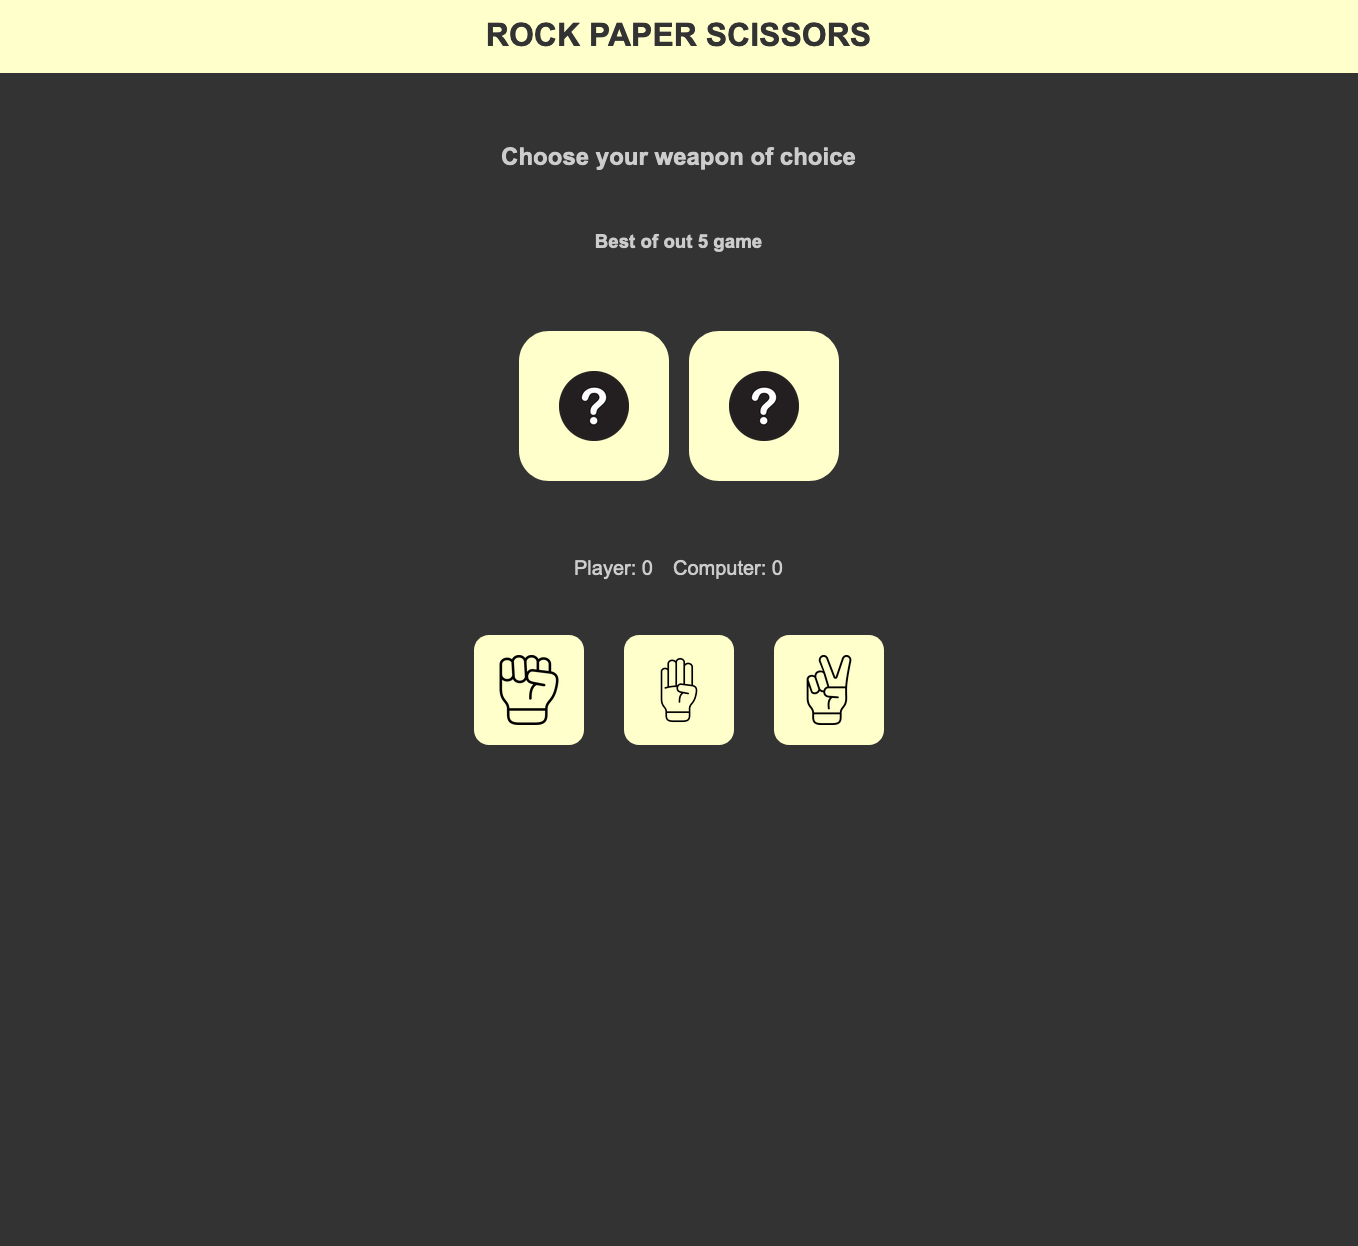
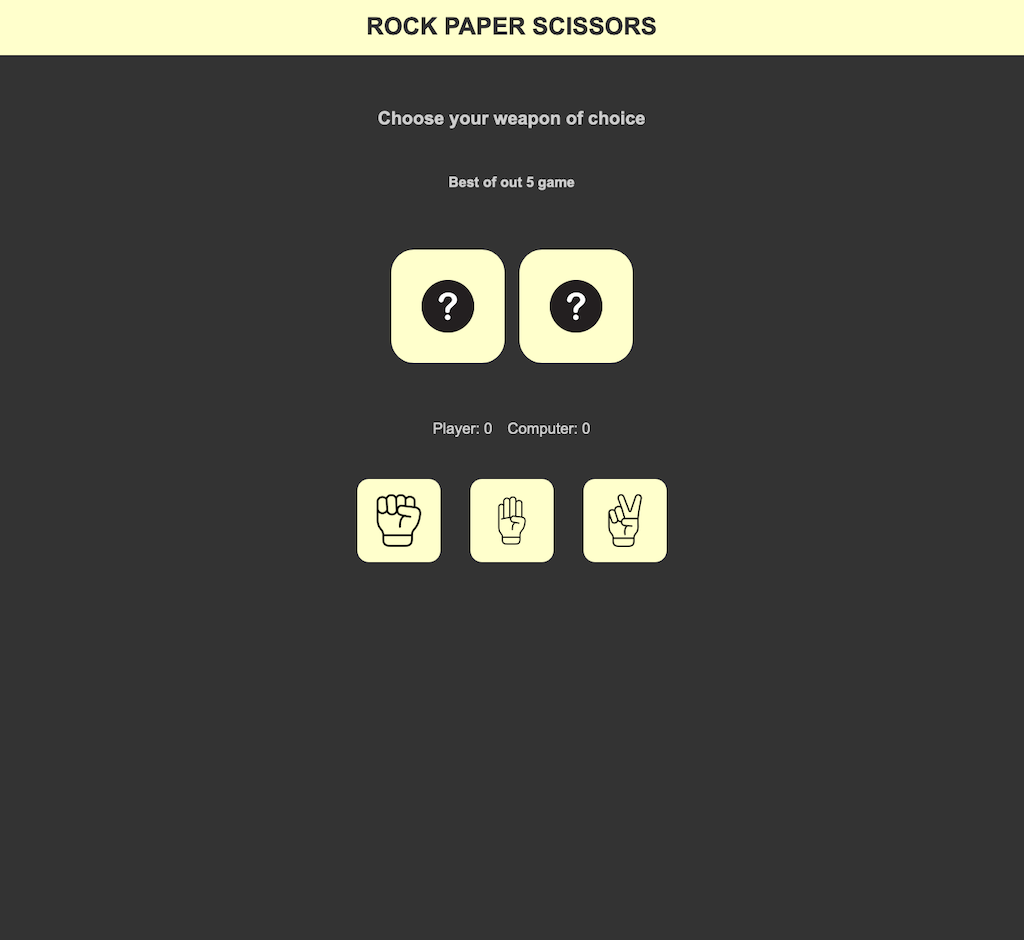
fix image scaling

diff --git a/styles.css b/styles.css
@@ -71,7 +71,7 @@ body, a, button {
 
 .top-section h1 {
     font-size: clamp(2rem, 5vw, 3.5rem);
-    margin: 0;
+    margin: 40px 0 0;
     color: #ffffff;
 }
 
